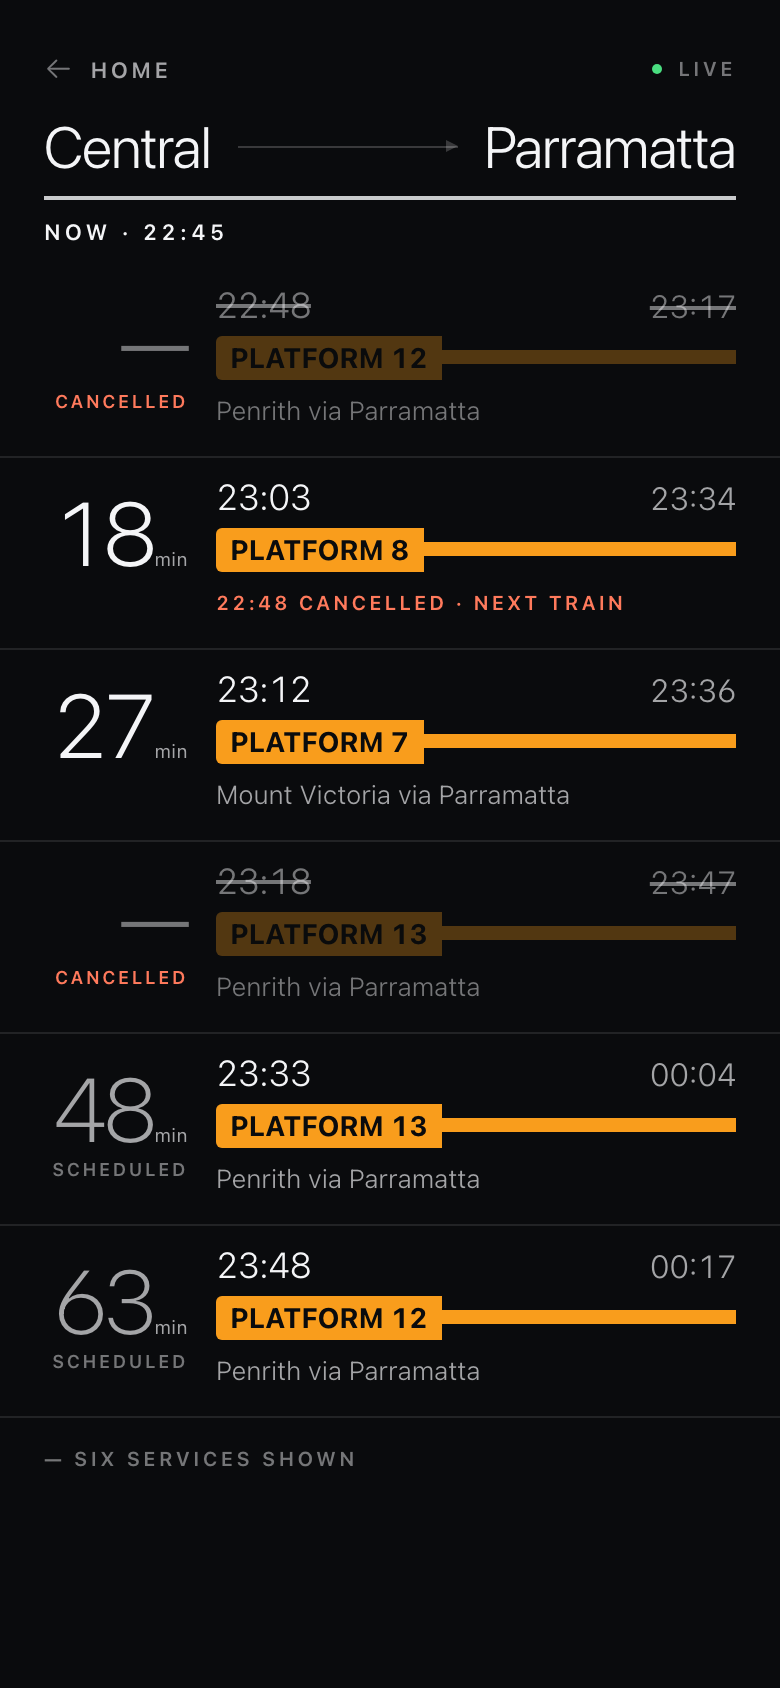
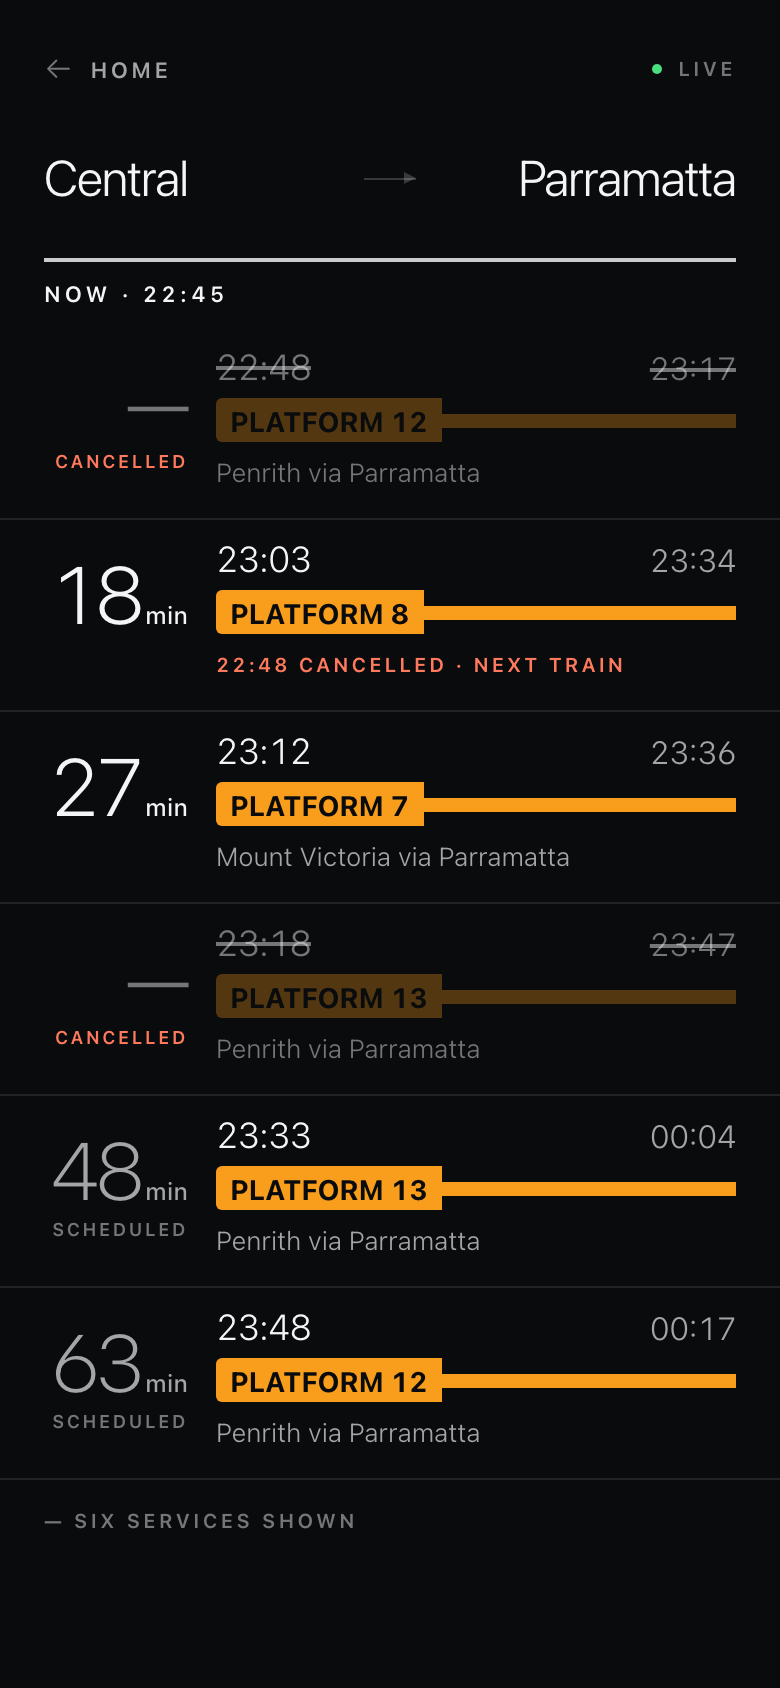
Add ferry board browser calibration

diff --git a/tools/shoot-states.js b/tools/shoot-states.js
@@ -48,6 +48,7 @@ const { journeyGeometryProblems } = require('./journey-geometry');
 const ROOT = path.resolve(__dirname, '..');
 const DEFAULT_OUT = path.join(os.tmpdir(), 'trains-states');
 const DEFAULT_URL = 'http://localhost:8092/';
+const readFixture = (name) => JSON.parse(fs.readFileSync(path.join(ROOT, 'tools', 'fixtures', name), 'utf8'));
 
 /* The fixture's pinned moment: 22:45 on Monday 31 August 2026. */
 const NOW_ISO = '2026-08-31T22:45:00+10:00';
@@ -125,6 +126,18 @@ const TRIP_FERRY = {
   from: { id: '200020', name: 'Circular Quay', location: { lat: -33.861351, lon: 151.210813 } },
   to: { id: '209573', name: 'Manly Wharf', location: { lat: -33.799541, lon: 151.284282 } },
   createdAt: '2026-09-05T08:00:00+10:00'
+};
+const TRIP_PYRMONT_DOUBLE_BAY = {
+  id: 'trip-pyrmont-double-bay',
+  from: { id: '2000260', name: 'Pyrmont Bay Wharf' },
+  to: { id: '202823', name: 'Double Bay Wharf' },
+  createdAt: '2026-09-05T20:30:00+10:00'
+};
+const TRIP_DOUBLE_BAY_PYRMONT = {
+  id: 'trip-double-bay-pyrmont',
+  from: { id: '202823', name: 'Double Bay Wharf' },
+  to: { id: '2000260', name: 'Pyrmont Bay Wharf' },
+  createdAt: '2026-09-05T20:30:00+10:00'
 };
 const TRIP_MIXED = {
   id: 'trip-wynyard-manly',
@@ -223,6 +236,9 @@ async function states() {
     FERRY_NOW, ferryBody, ferryJourneys, mixedBody, mixedJourneys,
     balmainEastBody, cockatooBalmainBody
   } = fx;
+  const pyrmontDoubleBayBody = readFixture('departures_pyrmont_doublebay.json');
+  const doubleBayPyrmontBody = readFixture('departures_doublebay_pyrmont.json');
+  const circularQuayManlyBody = readFixture('departures_circularquay_manly.json');
 
   const board = (name, body, opts = {}) => ({
     name,
@@ -1029,6 +1045,63 @@ async function states() {
     transfer('board-cancelled-tight', breakLeg(tighten(transferJourneys()))),
     transfer('board-two-change', twoChangeBoard()),
 
+    ferry('ferry-pyrmont', pyrmontDoubleBayBody, {
+      trip: TRIP_PYRMONT_DOUBLE_BAY,
+      now: Date.parse(pyrmontDoubleBayBody.generatedAt),
+      expect: {
+        boardHeader: ['Pyrmont Bay Wharf', 'Double Bay Wharf'],
+        equalHeaderLines: true,
+        caps: [],
+        copy: ['Circular Quay'],
+        accessibleCopy: ['Pyrmont Bay Wharf'],
+        ferryCodes: ['F4', 'F7']
+      }
+    }),
+    ferry('ferry-doublebay', doubleBayPyrmontBody, {
+      trip: TRIP_DOUBLE_BAY_PYRMONT,
+      now: Date.parse(doubleBayPyrmontBody.generatedAt),
+      expect: {
+        boardHeader: ['Double Bay Wharf', 'Pyrmont Bay Wharf'],
+        equalHeaderLines: true,
+        caps: [],
+        copy: ['Circular Quay'],
+        accessibleCopy: ['Double Bay Wharf'],
+        ferryCodes: ['F7', 'F4']
+      }
+    }),
+    ferry('ferry-numeric-control', circularQuayManlyBody, {
+      trip: TRIP_FERRY,
+      now: Date.parse(circularQuayManlyBody.generatedAt),
+      expect: {
+        boardHeader: ['Circular Quay', 'Manly Wharf'],
+        caps: ['Wharf 4, Side A', 'Wharf 4, Side B', 'Wharf 4, Side A', 'Wharf 4, Side A'],
+        ferryCodes: ['F1']
+      }
+    }),
+    ferry('ferry-pyrmont-detail', pyrmontDoubleBayBody, {
+      trip: TRIP_PYRMONT_DOUBLE_BAY,
+      now: Date.parse(pyrmontDoubleBayBody.generatedAt),
+      after: OPEN_ROW(0),
+      expect: {
+        rail: true,
+        caps: [],
+        copy: ['Pyrmont Bay Wharf', 'Double Bay Wharf', 'Take this ferry'],
+        accessibleCopy: ['Pyrmont Bay Wharf'],
+        ferryCodes: ['F4', 'F7']
+      }
+    }),
+    ferry('ferry-numeric-detail', circularQuayManlyBody, {
+      trip: TRIP_FERRY,
+      now: Date.parse(circularQuayManlyBody.generatedAt),
+      after: OPEN_ROW(0),
+      expect: {
+        rail: true,
+        caps: ['Wharf 4, Side A'],
+        copy: ['Circular Quay', 'Manly Wharf', 'Take this ferry'],
+        ferryCodes: ['F1']
+      }
+    }),
+
     ferry('ferry-home', ferryBody(), {
       route: '#/',
       expect: { status: 'Next ferry', ferryCodes: ['MFF'] }
@@ -1367,6 +1440,24 @@ function pageScript(state) {
         problems.push('figure "' + (mins.firstChild && mins.firstChild.nodeValue) + '" overflows its column: '
           + mins.scrollWidth + ' > ' + mins.clientWidth);
       }
+      const unit = row.querySelector('.sy-u');
+      if (mins && unit) {
+        const wide = row.classList.contains('wide');
+        const expectedFigure = innerWidth >= 900 ? (wide ? 36 : 46.8) : (wide ? 27.9 : 40.5);
+        const figureStyle = getComputedStyle(mins);
+        const unitStyle = getComputedStyle(unit);
+        if (!near(px(figureStyle.fontSize), expectedFigure, 0.1)) {
+          problems.push('figure type is ' + figureStyle.fontSize + ', not ' + expectedFigure + 'px');
+        }
+        if (!near(px(unitStyle.fontSize), 12, 0.1) || unitStyle.fontWeight !== '500'
+          || !near(px(unitStyle.paddingLeft), 2, 0.1)) {
+          problems.push('unit type is ' + unitStyle.fontSize + '/' + unitStyle.fontWeight
+            + ' with ' + unitStyle.paddingLeft + ' inset, not 12px/500 with 2px');
+        }
+        if (unitStyle.color !== figureStyle.color) {
+          problems.push('unit colour ' + unitStyle.color + ' does not inherit figure colour ' + figureStyle.color);
+        }
+      }
       // The provenance shares the figure's 72px column and has no ellipsis, so
       // an overlong one is drawn straight through the departure time.
       const prov = row.querySelector('.sy-st');
@@ -1543,6 +1634,36 @@ function pageScript(state) {
       const said = topStatus ? topStatus.textContent.trim() : null;
       if (said !== expect.status) problems.push('the top line reads "' + said + '", not "' + expect.status + '"');
     }
+    if (Array.isArray(expect.boardHeader)) {
+      const endpoints = [...document.querySelectorAll('.sy-h1 > b')];
+      const values = endpoints.map((node) => node.textContent.trim());
+      if (values.join('/') !== expect.boardHeader.join('/')) {
+        problems.push('board endpoints are ' + values.join('/') + ', not ' + expect.boardHeader.join('/'));
+      }
+      if (endpoints.length === 2) {
+        const widths = endpoints.map((node) => node.getBoundingClientRect().width);
+        if (!near(widths[0], widths[1])) {
+          problems.push('board endpoint tracks are ' + widths.map(round).join('/') + 'px, not equal');
+        }
+        if (expect.equalHeaderLines) {
+          const lineCount = (node) => {
+            const range = document.createRange();
+            range.selectNodeContents(node);
+            return new Set([...range.getClientRects()].map((rect) => round(rect.top))).size;
+          };
+          const lines = endpoints.map(lineCount);
+          if (lines[0] !== lines[1]) {
+            problems.push('board endpoints use ' + lines.join('/') + ' lines, not the same count');
+          }
+        }
+      }
+    }
+    if (Array.isArray(expect.caps)) {
+      const caps = [...document.querySelectorAll('.sy-cap')].map((node) => node.textContent.trim());
+      if (caps.join('/') !== expect.caps.join('/')) {
+        problems.push('boarding caps are ' + caps.join('/') + ', not ' + expect.caps.join('/'));
+      }
+    }
     if (Array.isArray(expect.copy)) {
       const visible = document.body.textContent;
       for (const copy of expect.copy) {
@@ -1565,6 +1686,12 @@ function pageScript(state) {
       const labels = [...document.querySelectorAll('[aria-label]')].map((node) => node.getAttribute('aria-label'));
       for (const label of expect.aria) {
         if (!labels.includes(label)) problems.push('expected accessible label is missing: "' + label + '"');
+      }
+    }
+    if (Array.isArray(expect.accessibleCopy)) {
+      const labels = [...document.querySelectorAll('[aria-label]')].map((node) => node.getAttribute('aria-label')).join(' ');
+      for (const copy of expect.accessibleCopy) {
+        if (!labels.includes(copy)) problems.push('accessible copy is missing: "' + copy + '"');
       }
     }
     if (Array.isArray(expect.ferryCodes)) {
@@ -1723,10 +1850,8 @@ function pageScript(state) {
     const timeline = document.querySelector('.sy-tl');
     const futureRows = timeline ? [...timeline.querySelectorAll('.sy-fwd > .sy-row')] : [];
     if (timeline && futureRows.length === 6 && !timeline.querySelector(':scope > .sy-row')) {
-      const box = timeline.getBoundingClientRect();
       const heights = futureRows.map((row) => row.getBoundingClientRect().height);
-      if (futureRows[0].getBoundingClientRect().top < box.top - 0.5
-          || futureRows[5].getBoundingClientRect().bottom > box.bottom + 0.5
+      if (heights.some((height) => !near(height, 96))
           || Math.max(...heights) - Math.min(...heights) > 0.2) {
         problems.push('six future services are not six whole equal slots');
       }

diff --git a/tools/README.md b/tools/README.md
@@ -6,6 +6,9 @@
   and five ferry/mixed journey responses using verified Trip Planner IDs.
 - `fixtures/` — raw TfNSW responses from probes; golden inputs for backend
   mapping tests. Re-run the probe to refresh; note refresh date in commits.
+  The three `departures_*.json` files are mapped public-API captures from
+  2026-09-05 for the approved ferry-board calibration: Pyrmont Bay → Double
+  Bay, its reverse, and Circular Quay → Manly’s numbered/side wharf control.
 - `screenshot.js` — screenshot any URL at a real device viewport over CDP.
   No npm dependencies; kills Chrome in a `finally`.
 - `shoot-states.js` — drive the real client into every board state and shoot
@@ -157,7 +160,7 @@ What is checked, with the comp probes the numbers come from:
 - three full lines per board row, and a 96px row (at least 100px in detail)
   with its rule drawn edge to edge of a row that is itself edge to edge of the
   region holding it;
-- one figure column per view: detail uses 68px, the phone board uses 72px;
+- one figure column per view: detail uses 69px, the phone board uses 72px;
   each row figure and detail step time ends at `--sy-pad` + `--sy-fig`;
 - the figure fits that column, and our own copy is never ellipsised — an
   upstream headsign may be, but only once it has used the whole row;
@@ -281,7 +284,7 @@ change the produced filename, not the state, so rename by an explicit table and
 then **read every frame**: a stale `OFFLINE` board or a withheld figure is a
 convincing shot of the wrong screen, and so is the wrong route.
 
-The table, all thirty-six frames. `default` means no flags: the state carries its
+The table, all forty frames. `default` means no flags: the state carries its
 own size and the dark scheme is unsuffixed.
 
 | Exemplar | State | Invocation |
@@ -294,6 +297,9 @@ own size and the dark scheme is unsuffixed.
 | `board-390x844-two-change.png` | `board-two-change` | default |
 | `board-390x844-hero-light.png` | `on-time` | `--media prefers-color-scheme:light` |
 | `board-412x732-hero.png` | `short-on-time` | default (the state is 412×732) |
+| `board-390x844-ferry-pyrmont.png` | `ferry-pyrmont` | default |
+| `board-390x844-ferry-doublebay.png` | `ferry-doublebay` | default |
+| `board-390x844-ferry-numeric.png` | `ferry-numeric-control` | default |
 | `detail-390x844-hero.png` | `detail-hero` | default |
 | `detail-390x844-tight.png` | `detail-tight` | default |
 | `detail-390x844-cancelled.png` | `detail-cancelled` | default |
@@ -306,6 +312,7 @@ own size and the dark scheme is unsuffixed.
 | `detail-412x732-tight.png` | `detail-tight` | `--size 412x732` |
 | `detail-412x732-cancelled.png` | `detail-cancelled` | `--size 412x732` |
 | `detail-412x732-long.png` | `detail-long` | `--size 412x732` |
+| `detail-390x844-ferry-pyrmont.png` | `ferry-pyrmont-detail` | default |
 | `home-390x844-before.png` | `home-before` | default |
 | `home-390x844-change.png` | `home-change` | default |
 | `home-390x844-final.png` | `home-final` | default |

diff --git a/docs/contracts/ui.md b/docs/contracts/ui.md
@@ -500,16 +500,22 @@ the same change as this contract, and git keeps the history. Every frame in it
 is a `tools/shoot-states.js` shot of the built client, so a frame no state can
 produce is removed rather than left to rot.
 
-The set is thirty-six frames:
+The set is forty frames:
 
 - Board: `board-390x844-hero.png` plus its `past`, `delayed`, `cancelled`,
   `long`, `two-change` and `hero-light` variants, and `board-412x732-hero.png`.
   `two-change` is the two-transfer row grammar.
+- Ferry board: `board-390x844-ferry-pyrmont.png`,
+  `board-390x844-ferry-doublebay.png` and `board-390x844-ferry-numeric.png`
+  preserve the equal-column header, exact repeated-origin cap omission in
+  both directions, and full numeric/side caps respectively.
 - Journey detail: `detail-390x844-hero.png` plus its `tight`, `cancelled`,
   `direct`, `long`, `departed`, `focused` and `hero-light` variants, and
   `detail-412x732-hero.png` with its `tight`, `cancelled` and `long` variants.
   `departed` is the post-departure promoted row under `TO CHANGE`; `focused` is
   the already-focused journey, which carries no action rail.
+- Ferry detail: `detail-390x844-ferry-pyrmont.png` carries the same omitted
+  redundant cap while retaining the full origin and boarding instructions.
 - Smart home and directions: `home-390x844-before.png` plus `change`, `final`,
   `tight`, `cxl`, `focused-cxl`, `late`, `back` and `before-light`, and
   `home-412x732-change.png`. `tight` is a late unfocused lead, `cxl` the
